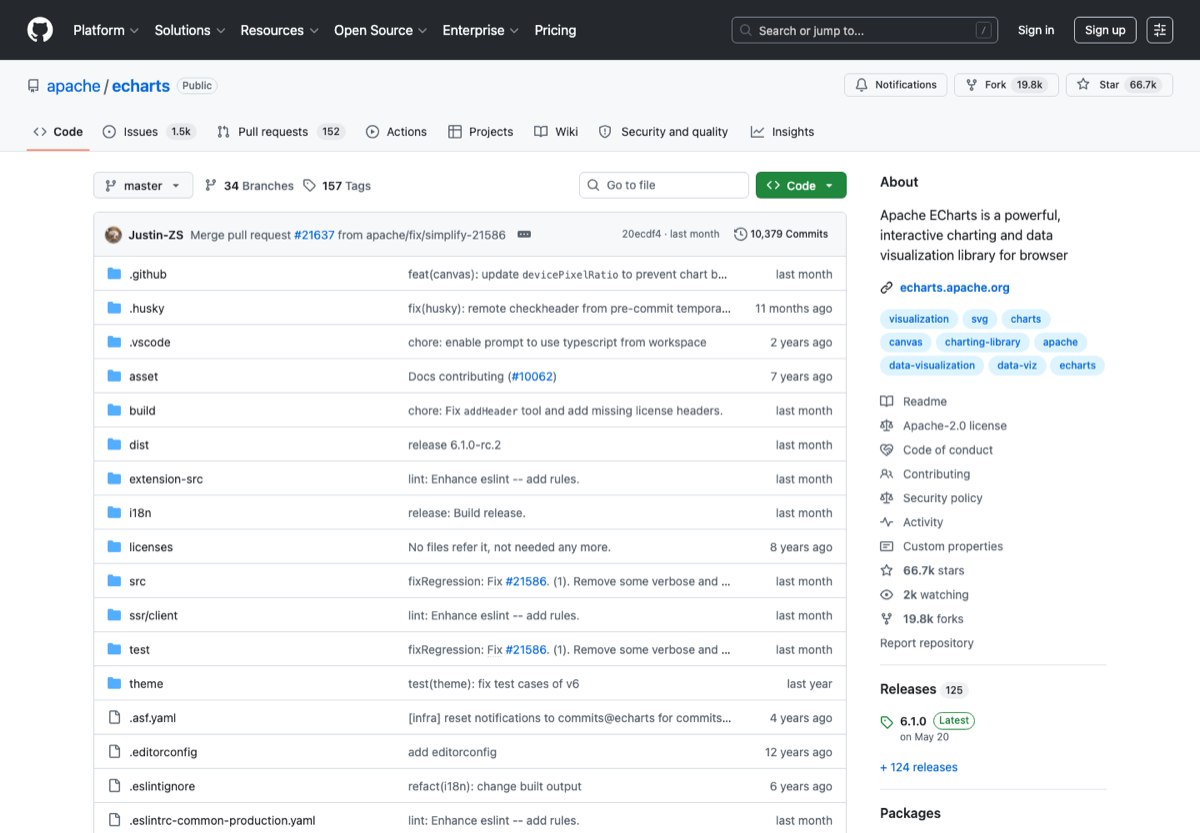
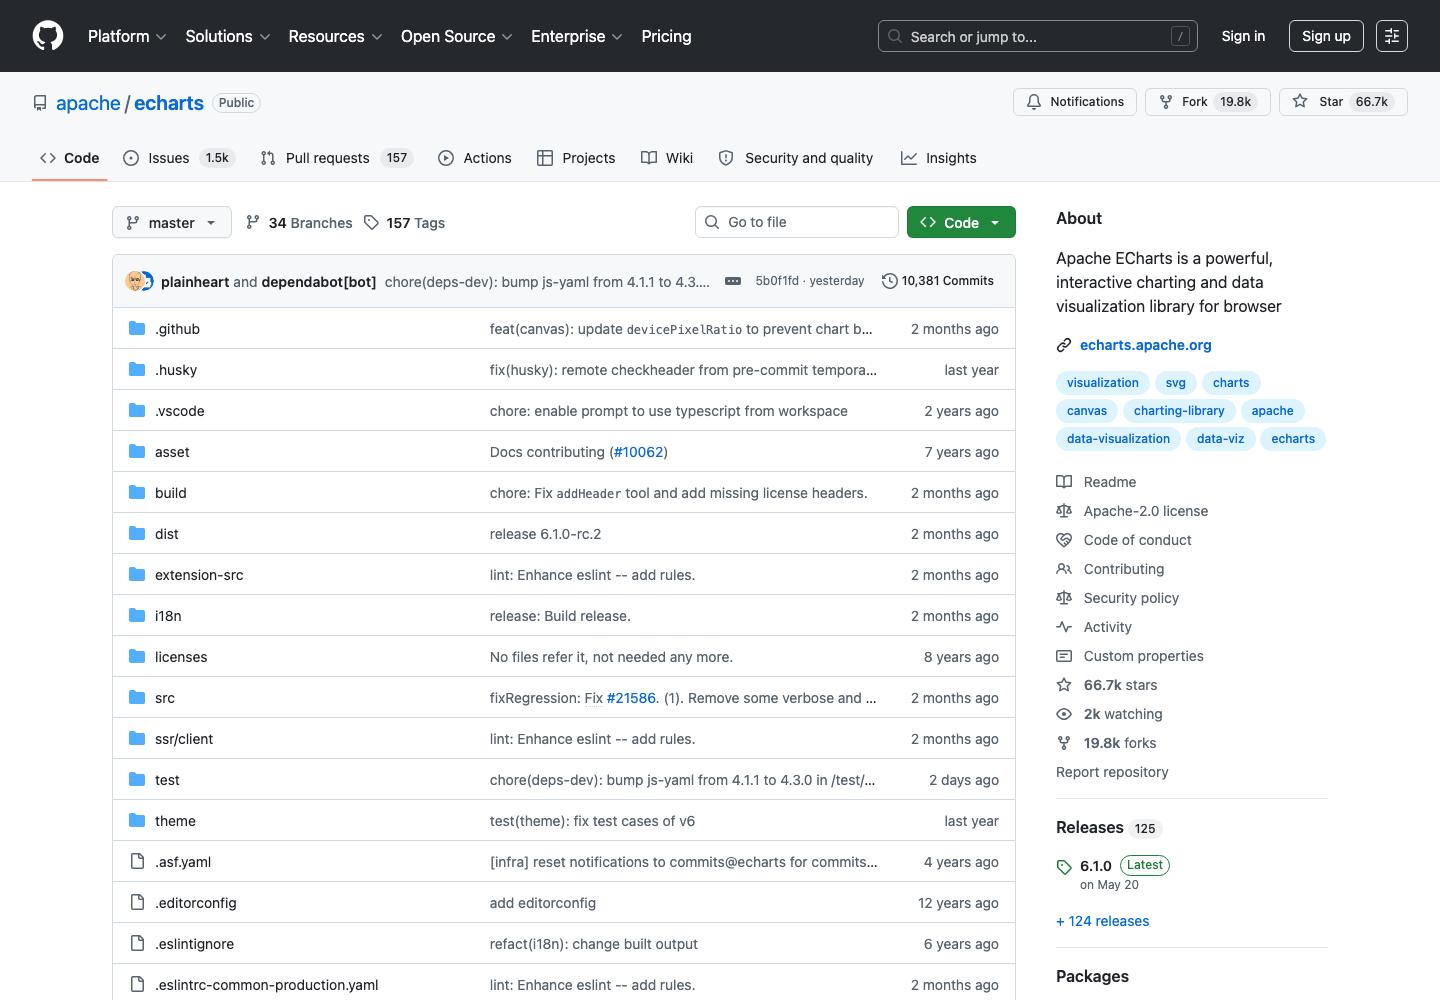
Polish README and curated resources

diff --git a/README.md b/README.md
@@ -1,55 +1,92 @@
-# 中文数据分析与可视化工具箱
+# 数据分析与可视化工具
 
-> Jupyter、Pandas、Polars、DuckDB、Plotly、ECharts、Streamlit、Superset 等工具整理。
+> 整理 Python 数据分析、数据库、本地 dashboard、交互图表和 BI 工具。
+
+<p align="left">
+  <a href="https://github.com/StaryMoon/cn-data-viz-toolbox"><img alt="stars" src="https://img.shields.io/github/stars/StaryMoon/cn-data-viz-toolbox?style=flat&label=stars"></a>
+  <img alt="category" src="https://img.shields.io/badge/%E6%95%B0%E6%8D%AE%20%20%2F%20%20%E5%8F%AF%E8%A7%86%E5%8C%96-curated-blue">
+  <img alt="language" src="https://img.shields.io/badge/language-中文-brightgreen">
+</p>
 
 ![preview](assets/preview.png)
 
-## Overview
+<sub>图片来源：公开入口预览图，[https://github.com/apache/echarts](https://github.com/apache/echarts)，截取/整理日期：2026-07-02。</sub>
 
-整理 Python 数据分析、数据库、本地 dashboard、交互图表和 BI 工具。
+## 定位
 
-本仓库只保留与主题直接相关、入口稳定、说明清晰的资源。优先收录官方文档、主流开源仓库、长期可访问的产品页面和常用工具链。
+本仓库是一份面向中文用户的主题索引，重点整理常用、稳定、值得优先了解的工具入口，并补充适用场景、选型建议和风险边界。目标不是追求数量，而是降低第一次检索和筛选的成本。
 
-## Key Resources
+- **主题**：数据 / 可视化
+- **适合人群**：科研、运营、产品、数据分析和 dashboard 用户
+- **首批重点**：Jupyter / Pandas / Polars / DuckDB / Plotly
+- **为什么值得整理**：数据可视化是跨行业刚需，开源工具成熟，适合做长期维护总表。
 
-Jupyter / Pandas / Polars / DuckDB
+## 使用方式
 
-## Resources
+1. 先看 [精选资源](#精选资源)，按自己的场景挑 2-3 个入口试用。
+2. 再看 [选型建议](#选型建议)，避免一上来把同类工具全装一遍。
+3. 如果用于课程、论文、开源项目或生产环境，务必看 [风险提醒](#风险提醒)。
 
-| Resource | Use case |
-| --- | --- |
-| [Jupyter](https://jupyter.org/) | Notebook 数据分析环境。 |
-| [Pandas](https://pandas.pydata.org/) | Python 数据分析基础库。 |
-| [Polars](https://pola.rs/) | 高性能 DataFrame。 |
-| [DuckDB](https://duckdb.org/) | 嵌入式分析数据库。 |
-| [Plotly](https://plotly.com/python/) | 交互式图表。 |
-| [Apache ECharts](https://echarts.apache.org/) | 强大的开源可视化图表库。 |
-| [Streamlit](https://streamlit.io/) | 快速构建数据 App。 |
-| [Apache Superset](https://superset.apache.org/) | 开源 BI 平台。 |
+## 收录口径
 
-## Recommended Path
+同时覆盖科研图、交互图、dashboard 和 BI，强调可复现和数据权限。
 
-1. 小数据先用 Pandas，大数据或本地分析优先试 DuckDB/Polars。
-2. 对外交付可使用 Streamlit 或 Superset。
-3. 论文图表优先保证可复现。
+优先收录：
 
-## Notes
+- 官方文档、官网、活跃 GitHub 仓库；
+- 免费可试用或开源项目；
+- 中文用户高频搜索、收藏、复用的工具；
+- 入口稳定、说明清楚、维护状态可判断的资源。
+
+暂不收录：
+
+- 破解软件、灰色下载、账号代认证、返利推广；
+- 长期不可访问或入口频繁变化的镜像；
+- 只有营销话术、没有清晰文档的产品；
+- 与本主题关系很弱的泛泛工具。
+
+## 精选资源
+
+| 名称 | 适合场景 | 入口 |
+| --- | --- | --- |
+| Jupyter | Notebook 数据分析环境。 | [访问](https://jupyter.org/) |
+| Pandas | Python 数据分析基础库。 | [访问](https://pandas.pydata.org/) |
+| Polars | 高性能 DataFrame。 | [访问](https://pola.rs/) |
+| DuckDB | 嵌入式分析数据库。 | [访问](https://duckdb.org/) |
+| Plotly | 交互式图表。 | [访问](https://plotly.com/python/) |
+| Apache ECharts | 强大的开源可视化图表库。 | [访问](https://echarts.apache.org/) |
+| Streamlit | 快速构建数据 App。 | [访问](https://streamlit.io/) |
+| Apache Superset | 开源 BI 平台。 | [访问](https://superset.apache.org/) |
+| Matplotlib | Python 科研绘图基础库。 | [访问](https://matplotlib.org/) |
+| Seaborn | 统计图表和论文草图常用库。 | [访问](https://seaborn.pydata.org/) |
+| Observable | 交互式数据 notebook 和可视化社区。 | [访问](https://observablehq.com/) |
+| Metabase | 开源 BI 和内部数据看板。 | [访问](https://www.metabase.com/) |
+
+## 选型建议
+
+- 小数据先用 Pandas，大数据或本地分析优先试 DuckDB/Polars。
+- 对外交付可使用 Streamlit 或 Superset。
+- 论文图表优先保证可复现。
+
+## 风险提醒
 
 - 图表复杂度不应超过数据表达需求。
 - dashboard 上线前需处理权限控制和数据脱敏。
 
-## Screenshot
+## 维护说明
 
-Source: [https://github.com/apache/echarts](https://github.com/apache/echarts)
+- 本仓库会优先更新失效链接、官方入口变更和明显过时的描述。
+- 新增资源请尽量给出官网、GitHub 仓库、文档页或可验证的公开说明。
+- 推荐新资源时，请说明具体场景和选择理由，避免只写泛泛评价。
 
-## Data
+## 数据文件
 
-Structured resource data is available in [`data/links.json`](data/links.json).
+结构化数据见 [`data/links.json`](data/links.json)，可用于脚本生成网页、表格或个人导航页。
 
 ## Contributing
 
-PRs are welcome for official links, documentation updates, screenshot refreshes, and concise use-case descriptions. Please avoid mirrors, cracked software, referral links, and unverified downloads.
+欢迎提交 PR 修正链接、补充官方文档、更新截图或改进中文说明。请保持描述短、准、可验证。
 
 ## License
 
-MIT. Third-party trademarks, screenshots, and website content belong to their respective owners.
+MIT。第三方商标、截图、网页内容和产品名称归各自权利方所有，本仓库只做索引和学习整理。